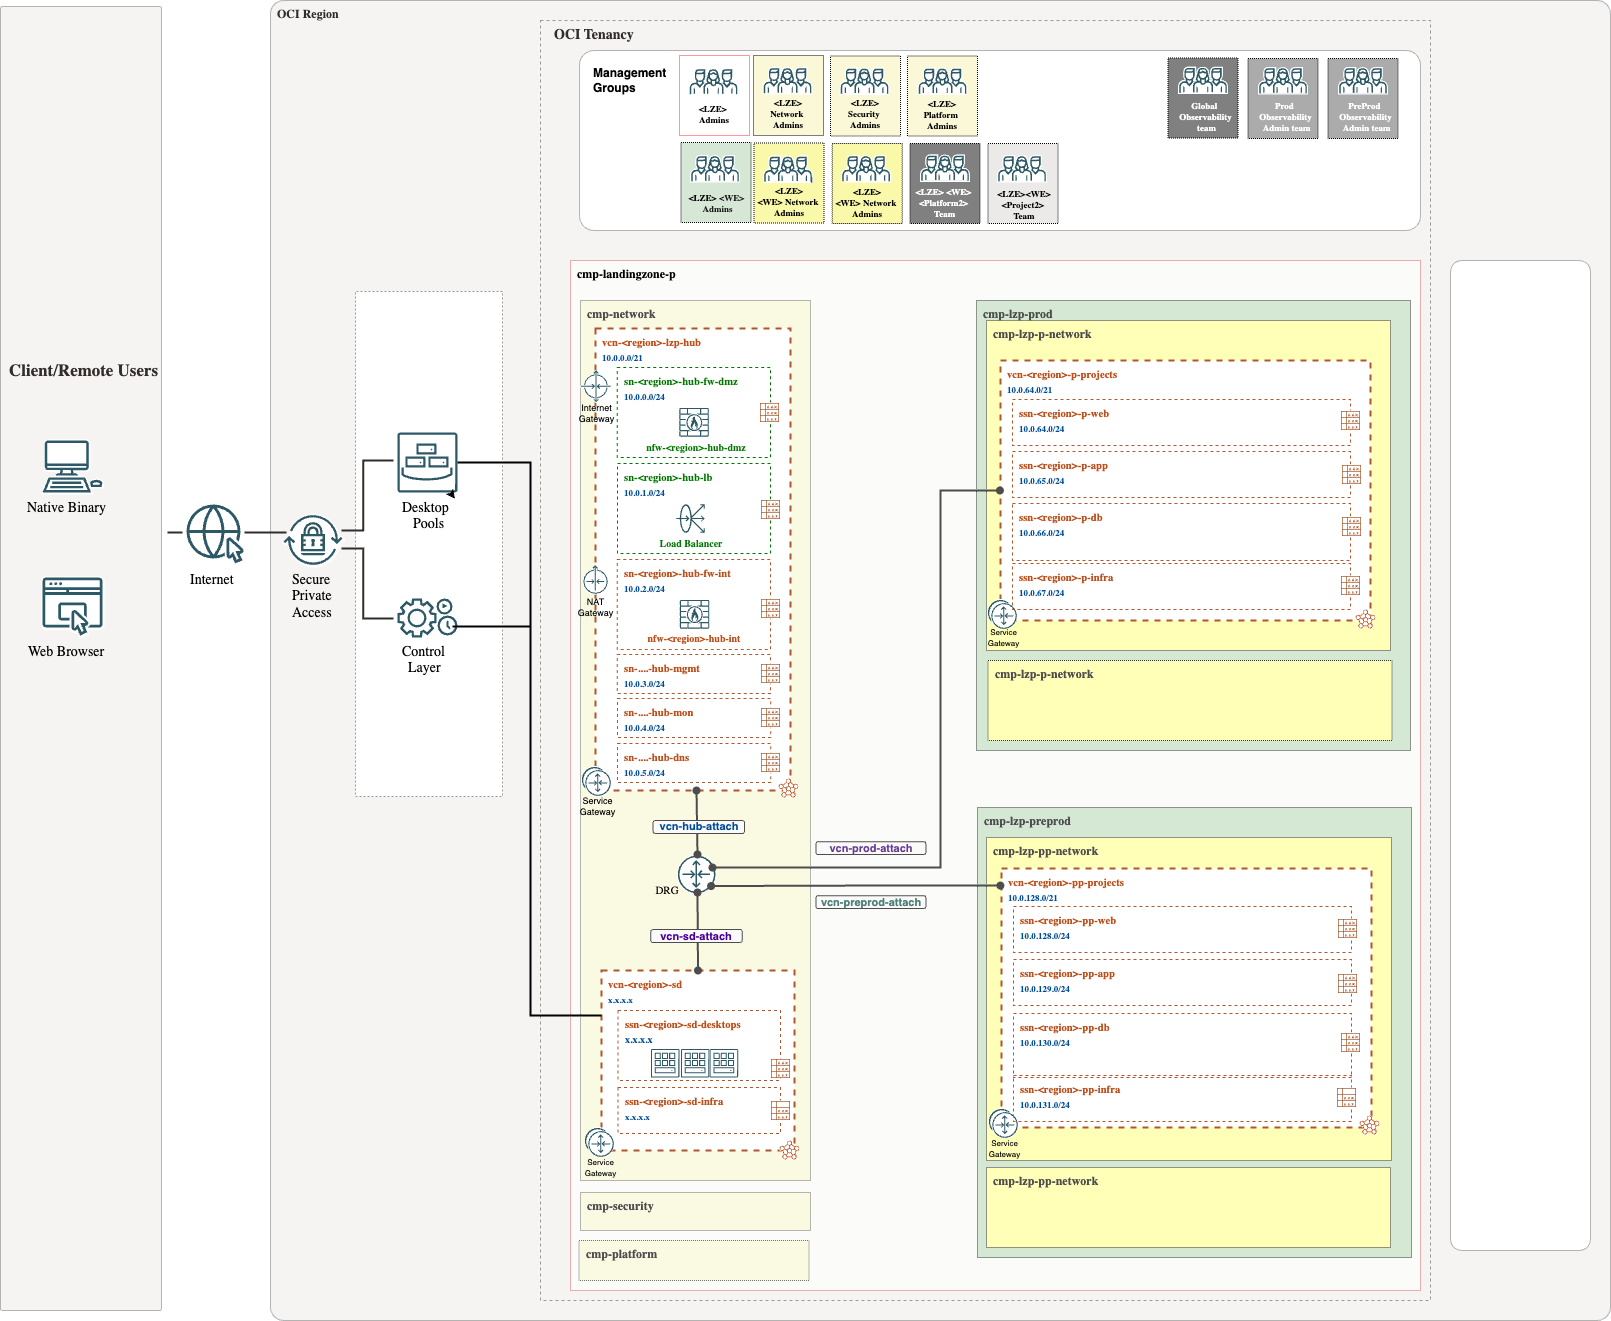
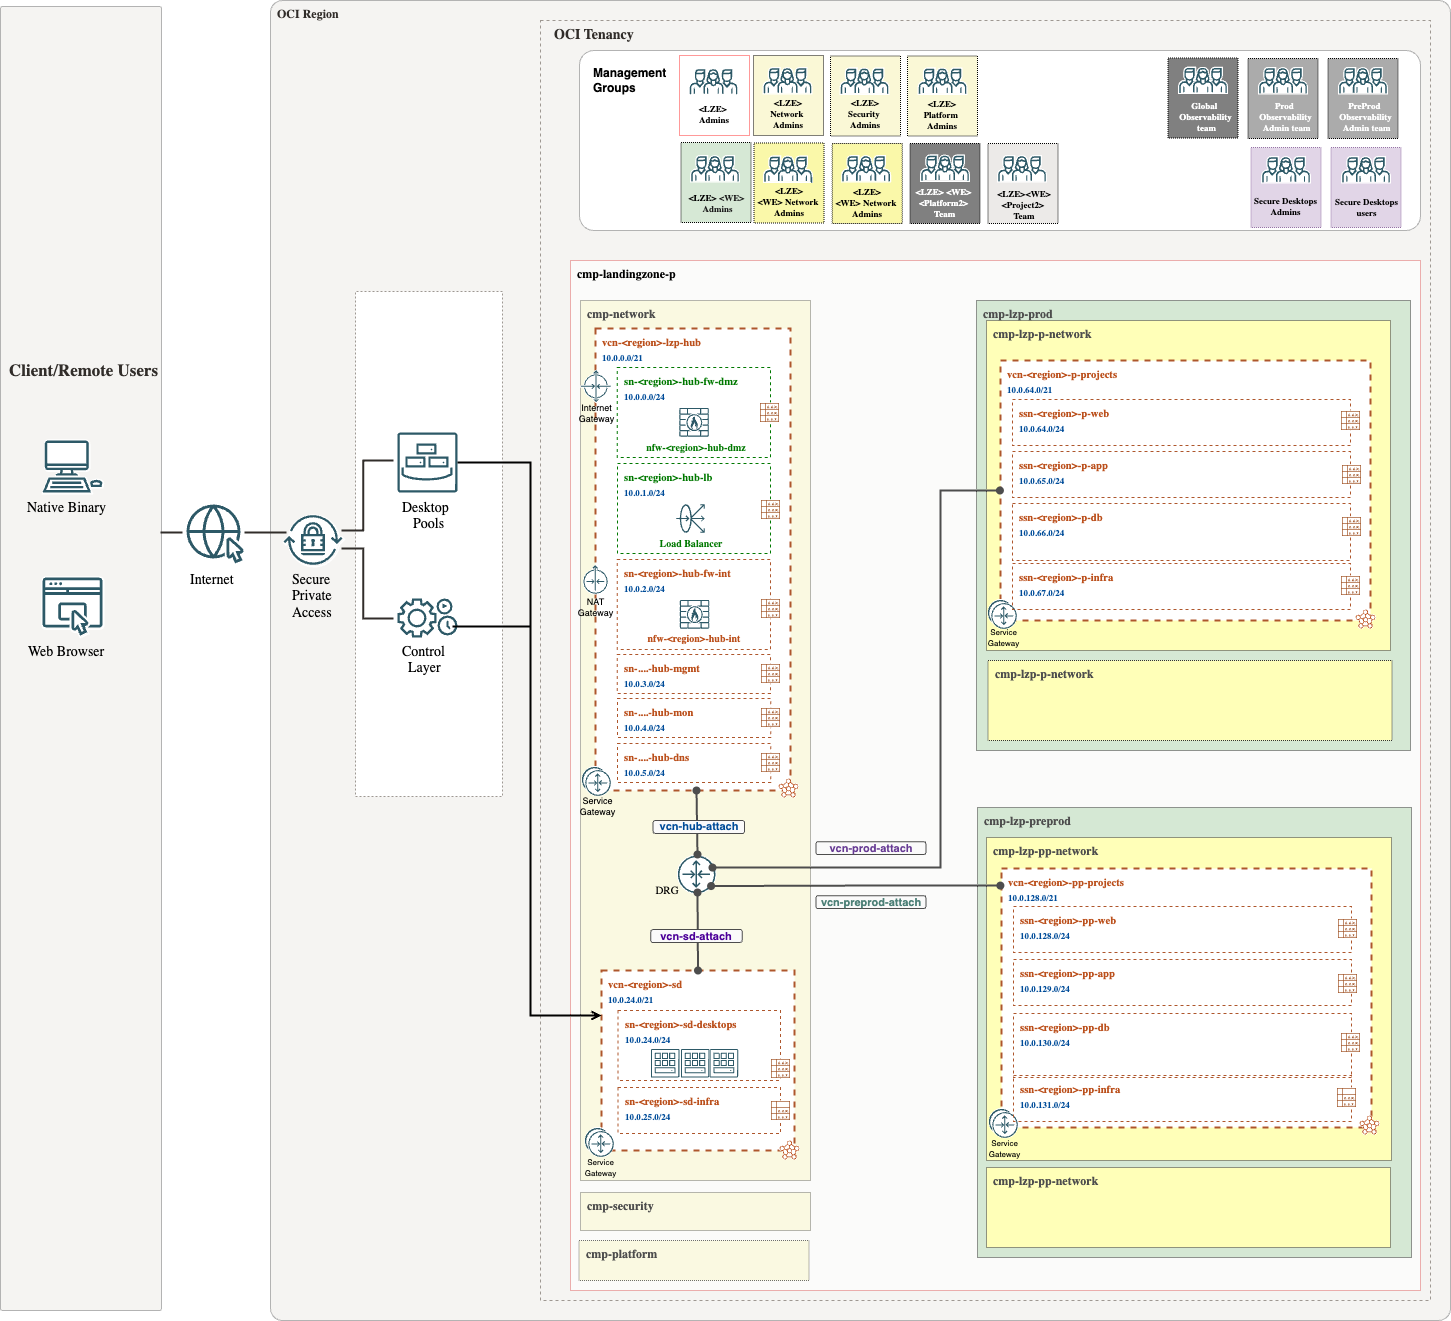
minor updates

diff --git a/addons/oci-secure-desktops/readme.md b/addons/oci-secure-desktops/readme.md
@@ -41,7 +41,7 @@ Following the guidelines explained here reduces the overall management complexit
 
 &nbsp; 
 
-### Add-on Design
+### Add-on Design.
 
 If want to learn more about configuring Secure Desktops, we recommend checking out this [solution](https://docs.oracle.com/en/solutions/oci-tenancy-secure-desktop-pool/index.html#GUID-4FDC6E79-517F-49C4-80F6-AED75B85F293) published in the Architecture Center.
 &nbsp; 
@@ -60,9 +60,29 @@ It includes the following resources:
 * Dedicated spoke VCN.
   
 
-### Add-on Implementation
+### Add-on Implementation.
 
-Import images into the compartment and add the following tags for each custom image. These tags allow the service to determine which images to display as an option when you create a desktop pool.
+As a prerequisite you need to deploy a fundation landing zone, in that case we have choosen the [One-OE](../../../../blueprints/one-oe/). To understand how to perform this operation with ORM, follow these [steps](ORM_ONE-OE_deployment_steps.md).
+
+[<img src="../../commons/images/DeployToOCI.svg" height="30" align="center">](https://cloud.oracle.com/resourcemanager/stacks/create?zipUrl=https://github.com/oci-landing-zones/terraform-oci-modules-orchestrator/archive/refs/tags/v2.0.5.zip&zipUrlVariables={"input_config_files_urls":"https://raw.githubusercontent.com/oci-landing-zones/oci-landing-zone-operating-entities/master/blueprints/one-oe/runtime/one-stack/oci_open_lz_one-oe_iam.auto.tfvars.json,https://raw.githubusercontent.com/oci-landing-zones/oci-landing-zone-operating-entities/refs/heads/master/addons/oci-hub-models/hub_b/oci_open_lz_hub_b_network_light.auto.tfvars.json,https://raw.githubusercontent.com/oci-landing-zones/oci-landing-zone-operating-entities/master/blueprints/one-oe/runtime/one-stack/oci_open_lz_one-oe_observability_cisl1.auto.tfvars.json,https://raw.githubusercontent.com/oci-landing-zones/oci-landing-zone-operating-entities/master/blueprints/one-oe/runtime/one-stack/oci_open_lz_one-oe_security_cisl1.auto.tfvars.json"}) 
+
+
+
+To run this add-on, follow this [steps](./Implementation_addon_steps.md).
+
+### Secure Desktop configuration.
+
+Now you have a Landing Zone ready to enable secure Desktops service.
+
+Follow these steps:
+
+1. Import a Custom Image.
+
+To use OCI Secure Desktops, you must import a custom image. For more information, see [Importing an Image](https://docs.oracle.com/en-us/iaas/Content/Compute/Tasks/imageimportexport.htm#Importing).
+
+Note: To get the list of [supported images](https://docs.oracle.com/en-us/iaas/secure-desktops/supported-images.htm), see Supported Images.
+
+Import the desired image into the compartment and add the following tags for each custom image. These tags allow the service to determine which images to display as an option when you create a desktop pool.
 
 
 oci:desktops:is_desktop_image true
@@ -70,7 +90,61 @@ oci:desktops:image_version <version>, where <version> is a meaningful reference 
 oci:desktops:image_os_type [Oracle Linux | Windows]
 
 
-### Secure Desktop configuration Steps
+2. Create a Desktop Pool.
+
+Create a user that belong to the grp-lzp-p-secure-desktop-admin group to run this operation.
+
+- Open the OCI Console and click Compute. Under Secure Desktops, click Desktop Pools.
+
+- Under List scope, select the compartment in which you want to create the pool and click Create Desktop Pool.
+
+- Enter a name for the desktop pool, you can edit this value later.
+
+- Enter the following Optional information.
+
+**Description**: Enter a description of the desktop pool.
+**Pool Start Time**: Select the date and time in UTC, when the pool becomes accessible. You can edit this value later.
+**Pool Stop Time**: Select the date and time in UTC when the pool stops and becomes inaccessible.
+Add Administrator contact details.
+Select Enable administrator privileges for users on their desktop to allow the desktop users to have administration privileges on their virtual desktops.
+In the Pool Size section, enter the following information.
+
+**Maximum size**: The maximum number of desktops in the pool.
+**Standby size**: The number of available, unassigned desktops. Standby desktops consume resources because they are running and available for immediate allocation to desktop users. You can edit these values later.
+Under Placement, select the availability domain in which to locate the desktop resources.
+
+Under Image and Shape, select the OS image and shape you want to use for the desktop. For Windows desktop pools, which require dedicated virtual machine hosts, use one of the following preferred shapes. They are mapped to DVH shapes for allocation of OCPUs and memory.
+
+Flex Low (2 OCPUs, 4GB RAM)
+Flex Medium (4 OCPUs, 8GB RAM)
+Flex High (8 OCPUs, 16GB RAM)
+
+Optional To enter persistent storage to desktop users by creating a block volume associated with a user, select Enable desktop storage and then select volume size (in GB).
+
+In the Networking section, enter the following information.
+
+**Virtual cloud network**: Select the virtual cloud network (VCN) for the desktops in this pool.
+**Subnet**: Select a public subnet in the VCN to use for the desktops.
+Optional Click Show advanced options to select use network security groups to control traffic.
+In Device Access Policy, specify how the virtual desktop and the client device interact.
+
+**Clipboard access**: Specify whether and how the virtual desktop can access the clipboard on the client device.
+**Audio access**: Specify whether and how the virtual desktop can access the speakers and microphone on the client device. This option is supported only when using the installed client, and the Audio In or microphone value is supported only on Windows desktops.
+**Drive mapping access**: Specify whether and how the virtual desktop can access drives on the client device. If you select Read or Write, users can move content between their local system and the virtual desktop. You can edit these values later.
+Note: When planning networking requirements, be sure to include necessary ingress and egress rules. For example, to the open internet. After a pool is created, its NSG configuration cannot be changed.
+
+Under Regular schedule, enter recurring times to start and stop the desktops in the pool. You can edit these values later.
+
+- Click Create.
+
+
+1. Access the Desktop Pool.
+
+Create a user that belong to the grp-lzp-p-secure-desktop-users group to run this operation.
+
+Edit the following URL with the appropriate region identifier. For more information about identifier values for your region, see Regions and Availability Domains.
+
+https://published.desktops.<RegionIdentifier>.oci.oraclecloud.com/client
 
 
 https://docs.oracle.com/en/learn/deploy-oci-secure-desktops/index.html#introduction
